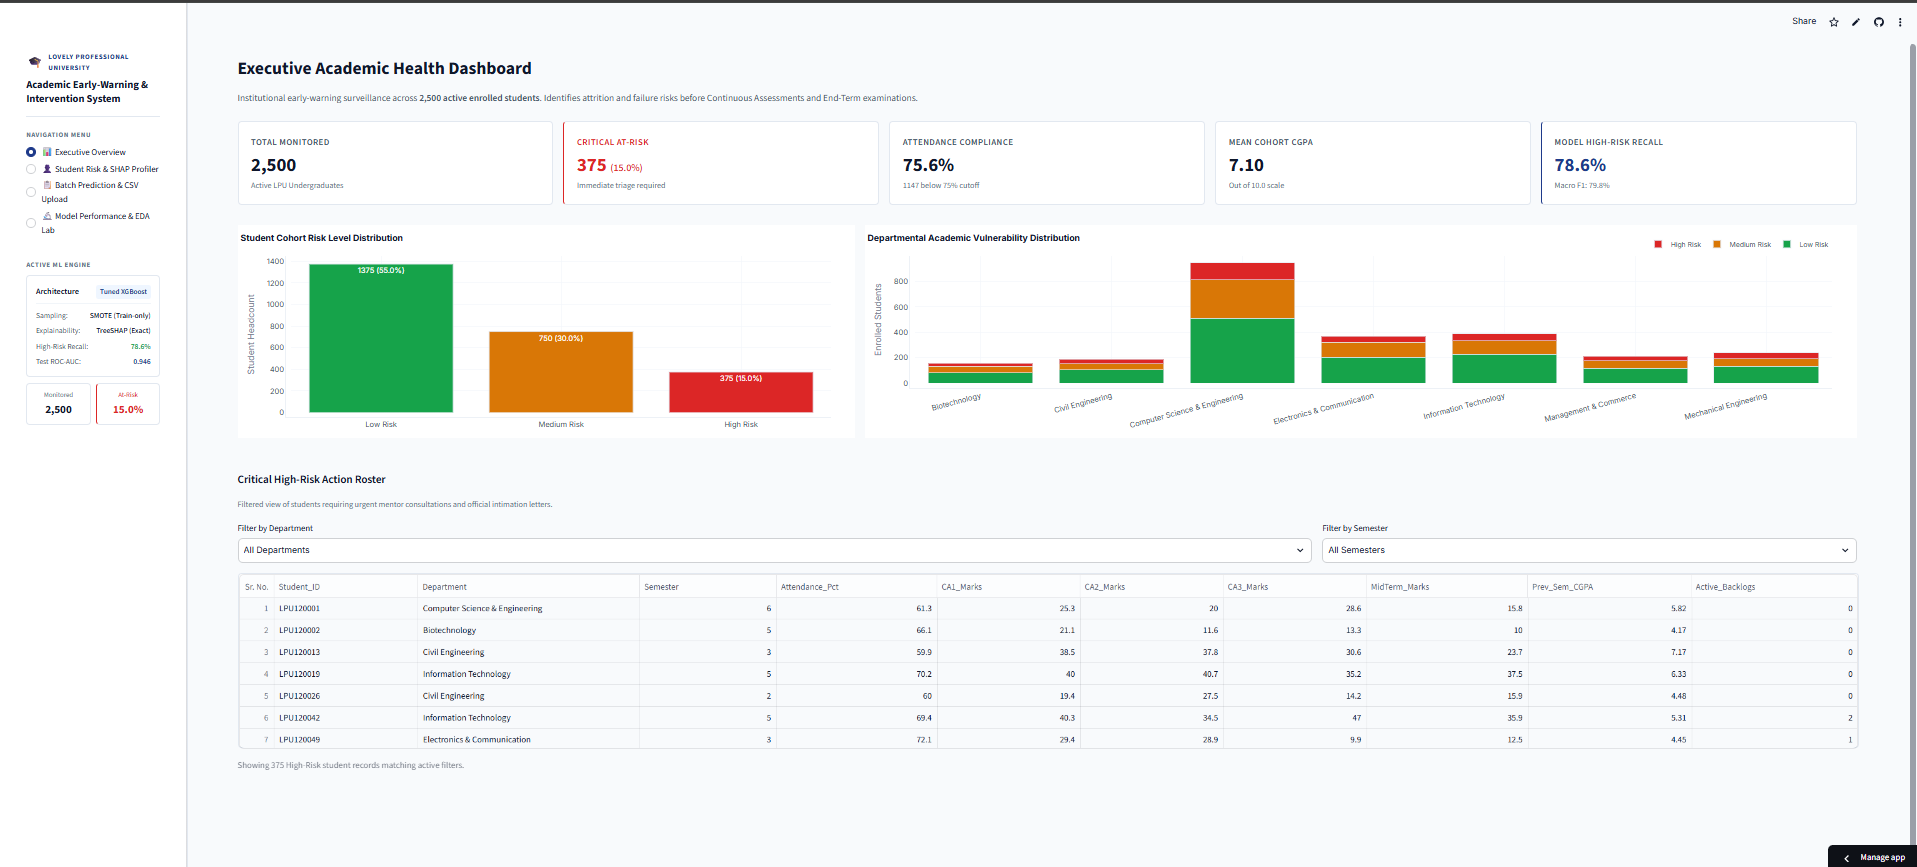
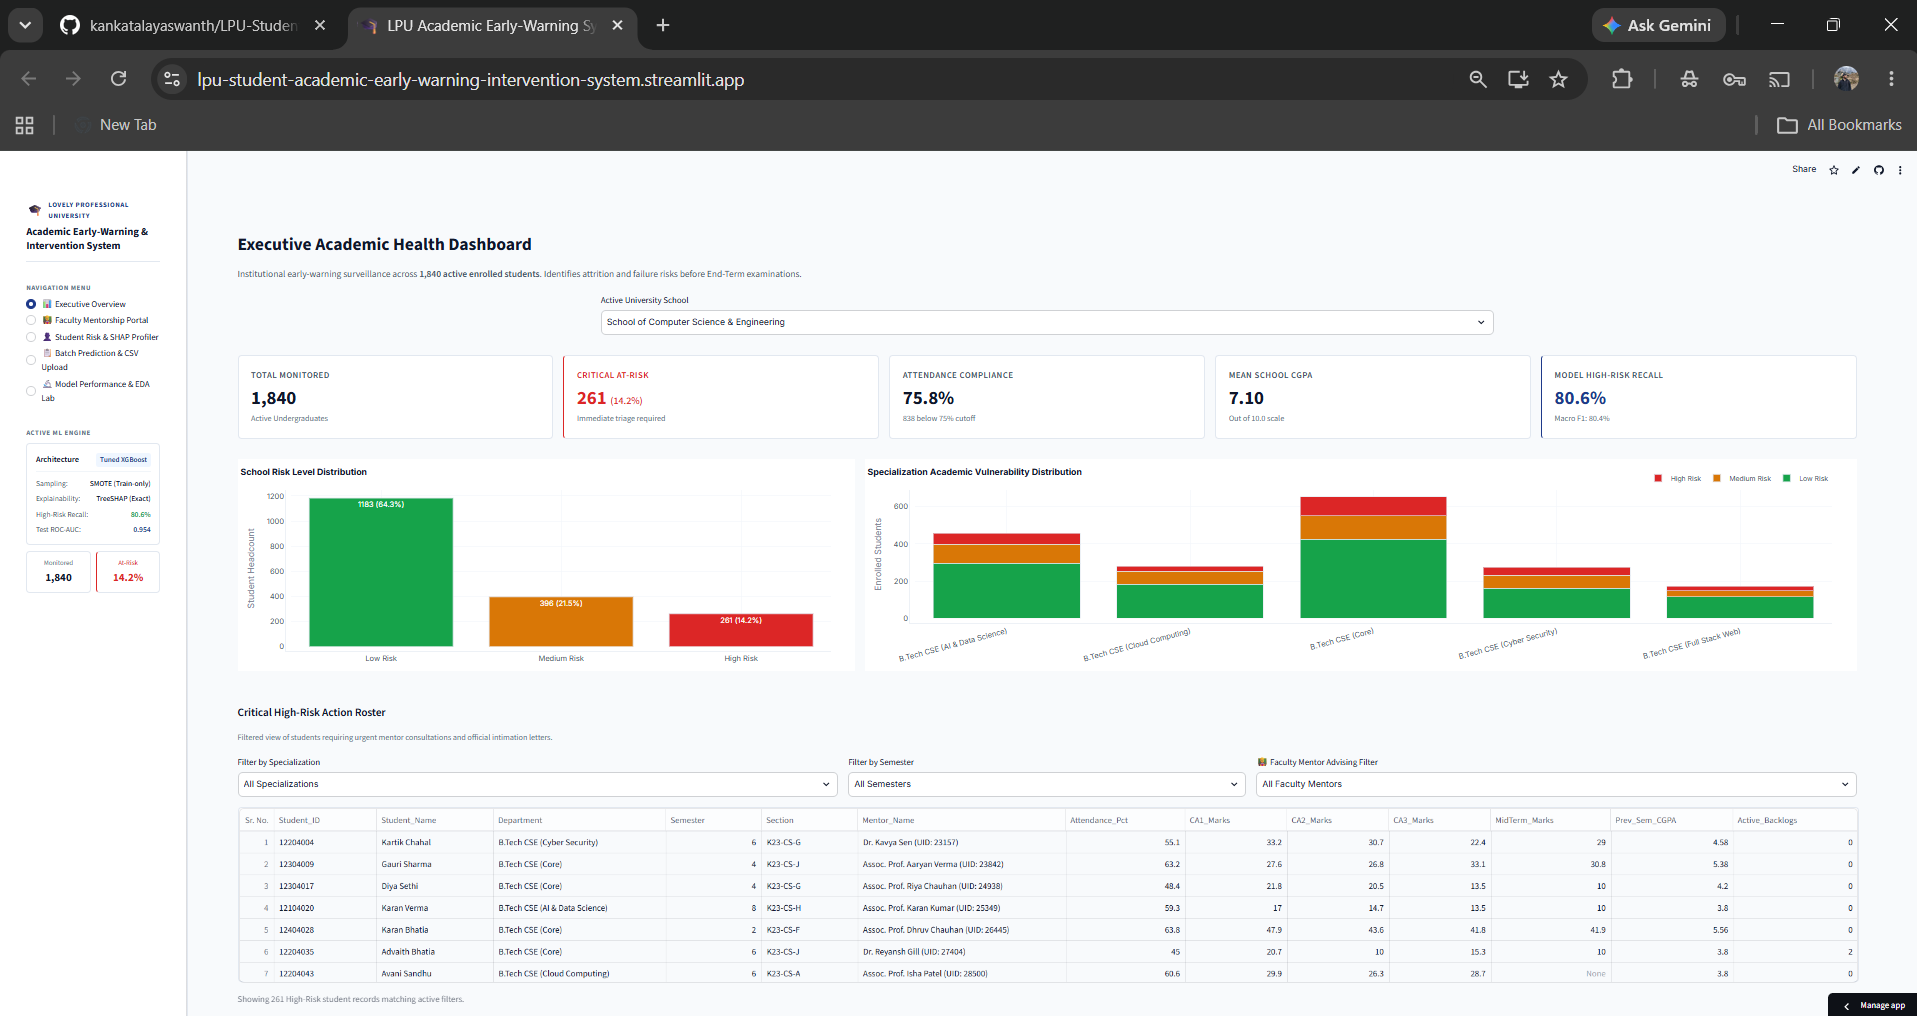
Update application outcome images, add Faculty Mentorship Portal preview, and update README

diff --git a/app.py b/app.py
@@ -38,6 +38,14 @@ st.set_page_config(
     initial_sidebar_state="expanded",
 )
 
+# Automated Deployment Cache & Session Invalidator (Forces fresh load on Streamlit Cloud)
+APP_BUILD_RELEASE = "v3.0.0-full-cache-bust"
+if st.session_state.get("_build_release_id") != APP_BUILD_RELEASE:
+    st.session_state.clear()
+    st.session_state["_build_release_id"] = APP_BUILD_RELEASE
+    st.cache_data.clear()
+    st.cache_resource.clear()
+
 # Custom Enterprise-grade CSS (strictly flat, solid colors, NO gradients, NO glassmorphism)
 CUSTOM_CSS = """
 <style>
@@ -977,10 +985,31 @@ elif "Student Risk" in page:
 
     # Prepare DataFrame for Model Inference
     inf_df = pd.DataFrame([student_record])
-    if "Student_ID" in inf_df.columns:
-        inf_df = inf_df.drop(columns=["Student_ID"])
-    if "Risk_Level" in inf_df.columns:
-        inf_df = inf_df.drop(columns=["Risk_Level"])
+    
+    # Strictly guarantee all 11 required domain feature columns exist
+    req_feature_cols = [
+        "Department", "Semester", "Attendance_Pct", "CA1_Marks", "CA2_Marks",
+        "CA3_Marks", "MidTerm_Marks", "Prev_Sem_CGPA", "Assignment_Submission_Rate",
+        "Active_Backlogs", "Participation_Score"
+    ]
+    domain_col_defaults = {
+        "Department": "B.Tech CSE (Core)",
+        "Semester": 1,
+        "Attendance_Pct": 75.0,
+        "CA1_Marks": 50.0,
+        "CA2_Marks": 50.0,
+        "CA3_Marks": 50.0,
+        "MidTerm_Marks": 50.0,
+        "Prev_Sem_CGPA": 7.0,
+        "Assignment_Submission_Rate": 75.0,
+        "Active_Backlogs": 0,
+        "Participation_Score": 6.0
+    }
+    for col in req_feature_cols:
+        if col not in inf_df.columns or pd.isna(inf_df[col].iloc[0]):
+            inf_df[col] = domain_col_defaults[col]
+            
+    inf_df = inf_df[req_feature_cols].copy()
 
     # Compute Inference & SHAP Values
     shap_df, probs, pred_label = explain_student_risk(inf_df, pipeline, explainer, feature_names, class_idx=2)

diff --git a/src/custom_transformers.py b/src/custom_transformers.py
@@ -28,6 +28,24 @@ class AcademicFeatureEngineer(BaseEstimator, TransformerMixin):
         else:
             raise TypeError("AcademicFeatureEngineer expects a pandas DataFrame input.")
 
+        # Ensure all required domain columns exist with realistic defaults if missing
+        domain_defaults = {
+            "CA1_Marks": 50.0,
+            "CA2_Marks": 50.0,
+            "CA3_Marks": 50.0,
+            "Attendance_Pct": 75.0,
+            "MidTerm_Marks": 50.0,
+            "Prev_Sem_CGPA": 7.0,
+            "Assignment_Submission_Rate": 75.0,
+            "Active_Backlogs": 0,
+            "Participation_Score": 6.0,
+            "Semester": 1,
+            "Department": "B.Tech CSE (Core)"
+        }
+        for col, default_val in domain_defaults.items():
+            if col not in df.columns:
+                df[col] = default_val
+
         # Continuous Assessment metrics
         ca1 = df["CA1_Marks"].fillna(50.0)
         ca2 = df["CA2_Marks"].fillna(50.0)

diff --git a/README.md b/README.md
@@ -46,8 +46,9 @@ ACADEMIC EARLY-WARNING & INTERVENTION SYSTEM/
 │   └── config.toml               # Streamlit enterprise theme settings
 ├── Application Outcome Images/   # High-resolution dashboard outcome screenshots
 │   ├── Executive Overview.png
+│   ├── Faculty Mentorship Portal.png
 │   ├── Student Risk & SHAP Profiler.png
-│   └── Model Performance &EDA Lab.png
+│   └── Model Performance & EDA Lab.png
 ├── artifacts/                    # Pre-computed models & evaluation metrics
 │   ├── best_model_pipeline.joblib# Serialized winning Tuned XGBoost Pipeline
 │   ├── shap_explainer.joblib     # Serialized TreeExplainer SHAP artifact
@@ -60,17 +61,23 @@ ACADEMIC EARLY-WARNING & INTERVENTION SYSTEM/
 │   ├── global_shap.json          # Cohort-wide SHAP feature importance
 │   └── smote_summary.json        # Class distribution before/after SMOTE
 ├── data/
-│   ├── student_academic_data.csv # 2,500 LPU student records with 3% missingness
+│   ├── all_schools_combined.csv  # 4,460 Master University Census records
+│   ├── school_cse.csv            # School of Computer Science & Engineering
+│   ├── school_mechanical.csv     # School of Mechanical Engineering
+│   ├── school_business.csv       # Mittal School of Business
+│   ├── school_law.csv            # School of Law
+│   ├── school_agriculture.csv    # School of Agriculture & Bio-Sciences
+│   ├── student_academic_data.csv # Master compatibility dataset
 │   └── sample_batch_upload.csv   # 50 unlabelled test students for 1-click batch demo
 ├── notebooks/
 │   └── EDA_and_Modeling.ipynb    # Complete documented Jupyter research notebook
 ├── src/
 │   ├── __init__.py
 │   ├── custom_transformers.py   # AcademicFeatureEngineer & IQROutlierCapper
-│   ├── data_prep.py             # Realistic synthetic data generation module
+│   ├── data_prep.py             # Multi-school realistic data generation module
 │   ├── explain.py               # SHAP explainability & rule-based intervention logic
 │   └── train.py                 # Leakage-free training, tuning & serialization pipeline
-├── app.py                       # 4-page interactive Streamlit dashboard
+├── app.py                       # 5-page interactive Streamlit dashboard
 ├── requirements.txt             # Pinned production dependencies
 └── README.md                    # Project documentation & viva defense guide
 ```
@@ -82,11 +89,14 @@ ACADEMIC EARLY-WARNING & INTERVENTION SYSTEM/
 ### Executive Academic Overview Dashboard
 ![Executive Overview Dashboard](Application%20Outcome%20Images/Executive%20Overview.png)
 
+### Faculty Mentorship & Advising Portal
+![Faculty Mentorship Portal](Application%20Outcome%20Images/Faculty%20Mentorship%20Portal.png)
+
 ### Individual Student Risk & TreeSHAP Profiler
 ![Student Risk & SHAP Profiler](Application%20Outcome%20Images/Student%20Risk%20%26%20SHAP%20Profiler.png)
 
 ### Supervised Learning Diagnostic & EDA Laboratory
-![Model Performance & EDA Lab](Application%20Outcome%20Images/Model%20Performance%20%26EDA%20Lab.png)
+![Model Performance & EDA Lab](Application%20Outcome%20Images/Model%20Performance%20%26%20EDA%20Lab.png)
 
 ---
 
